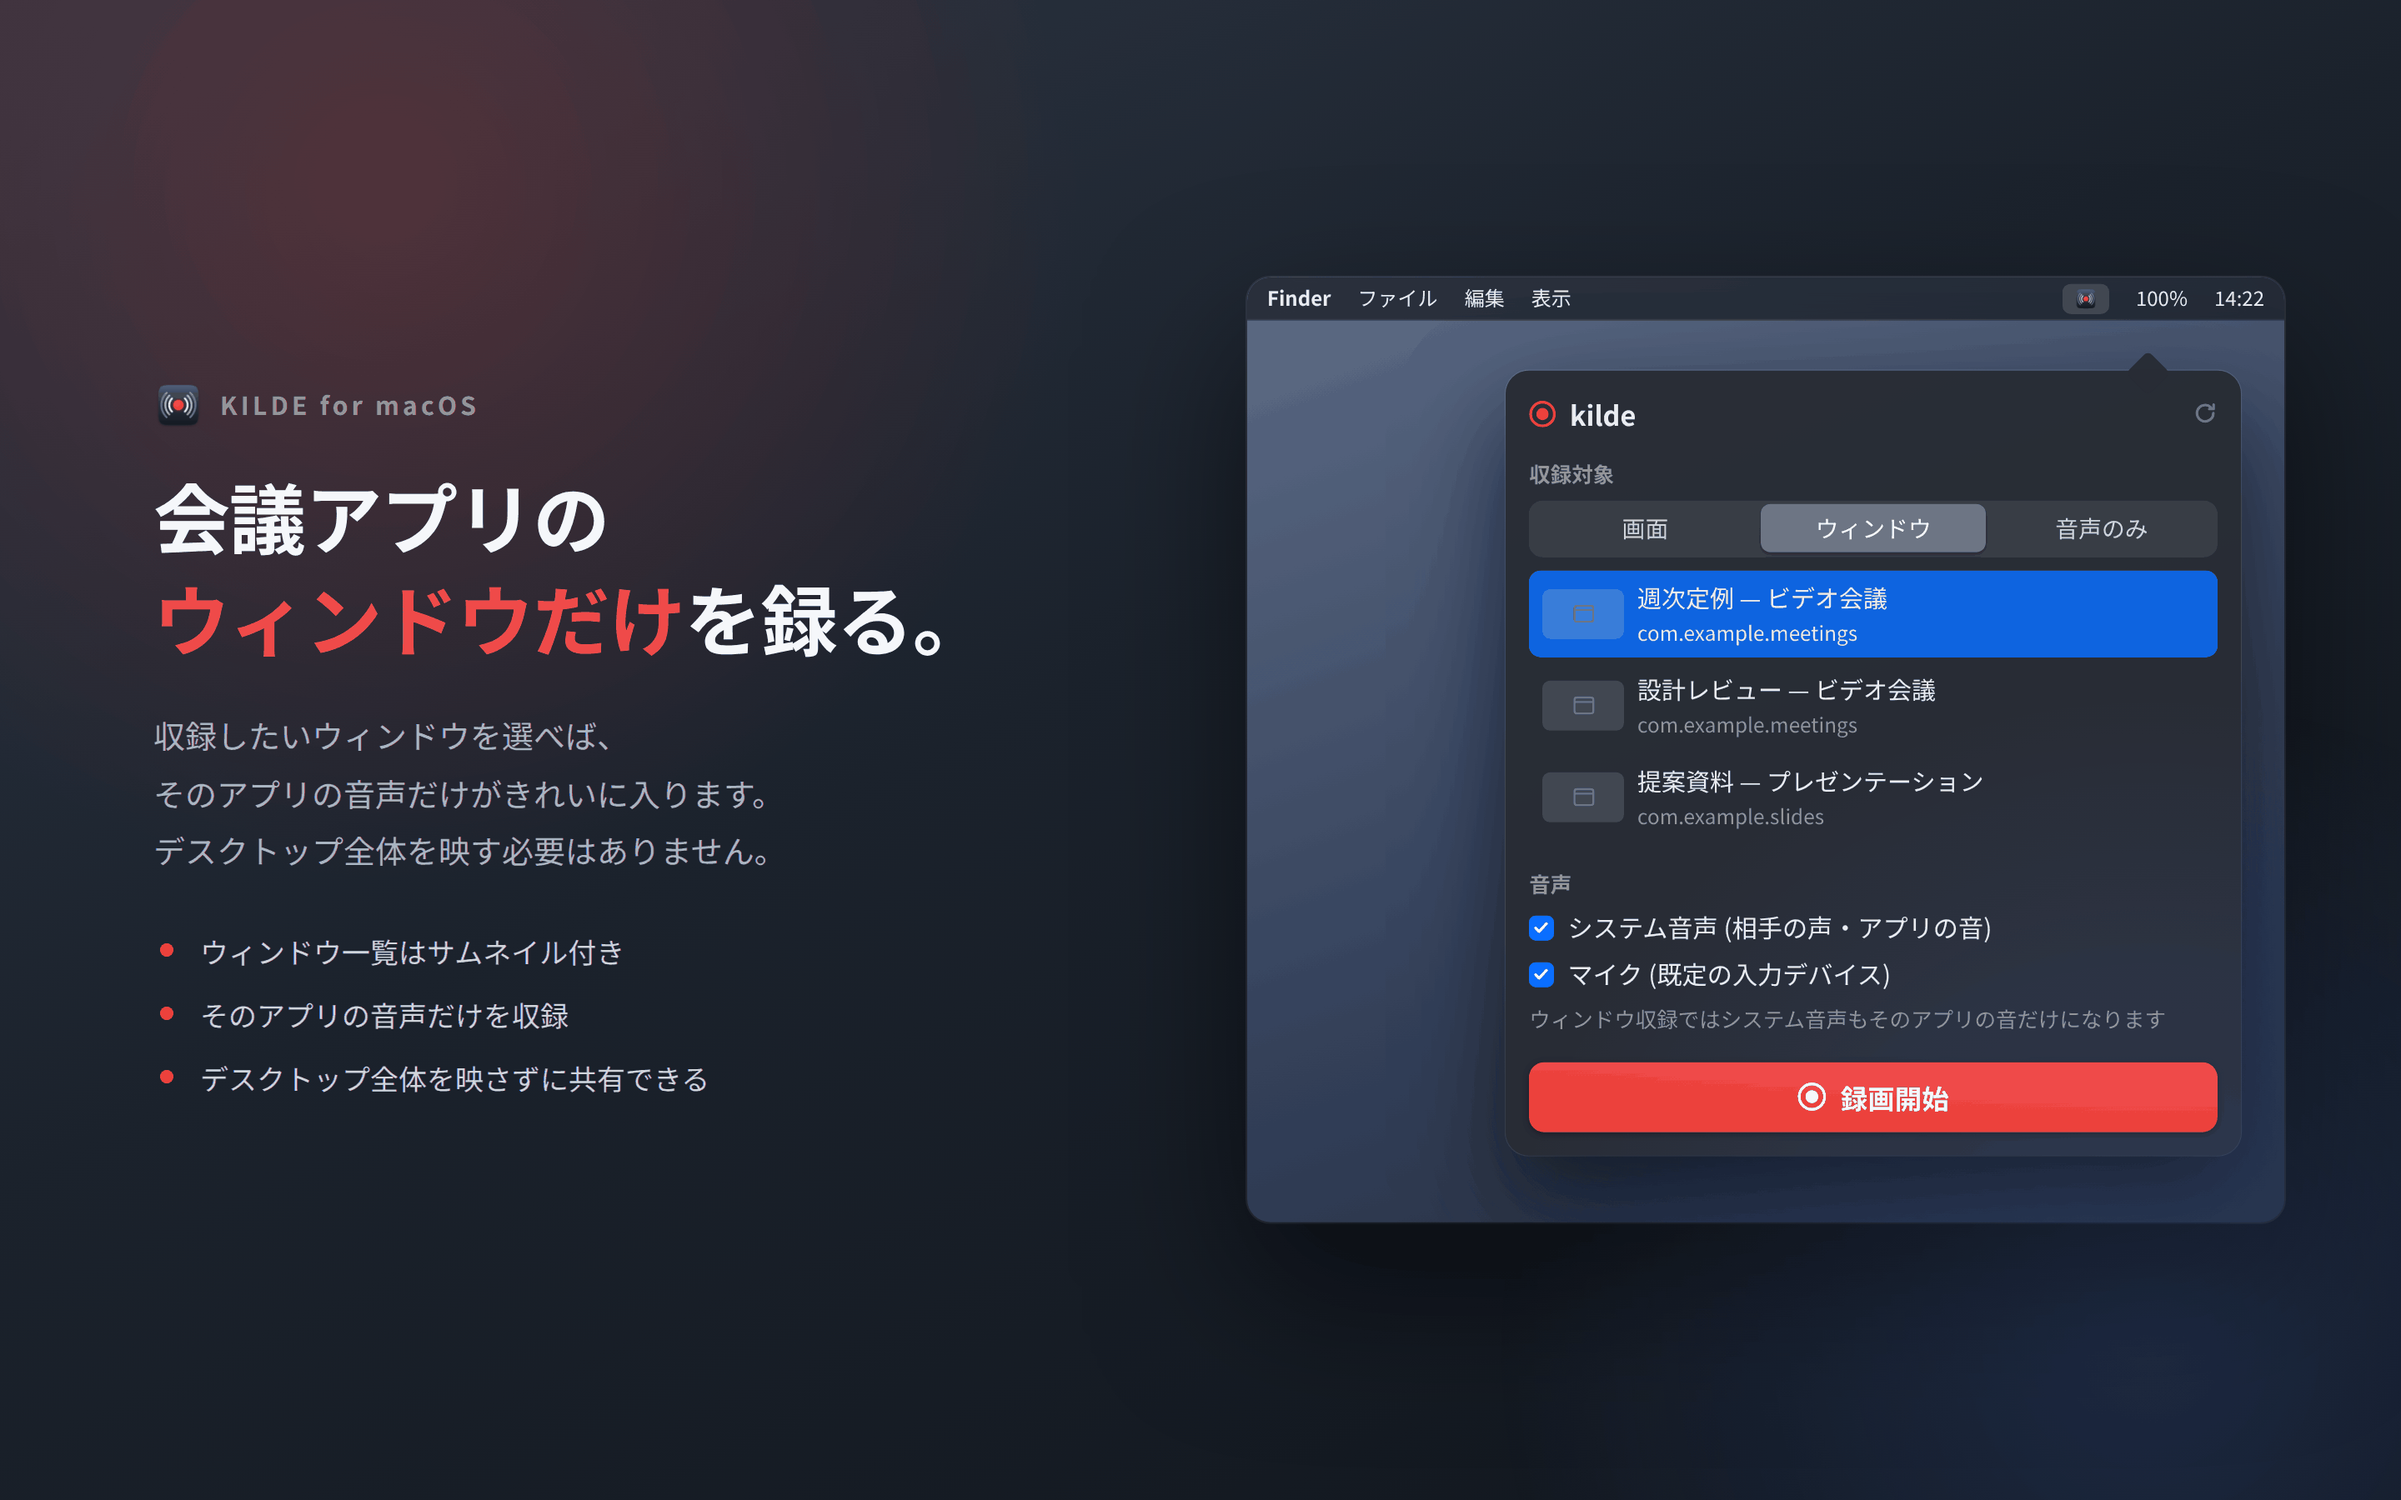
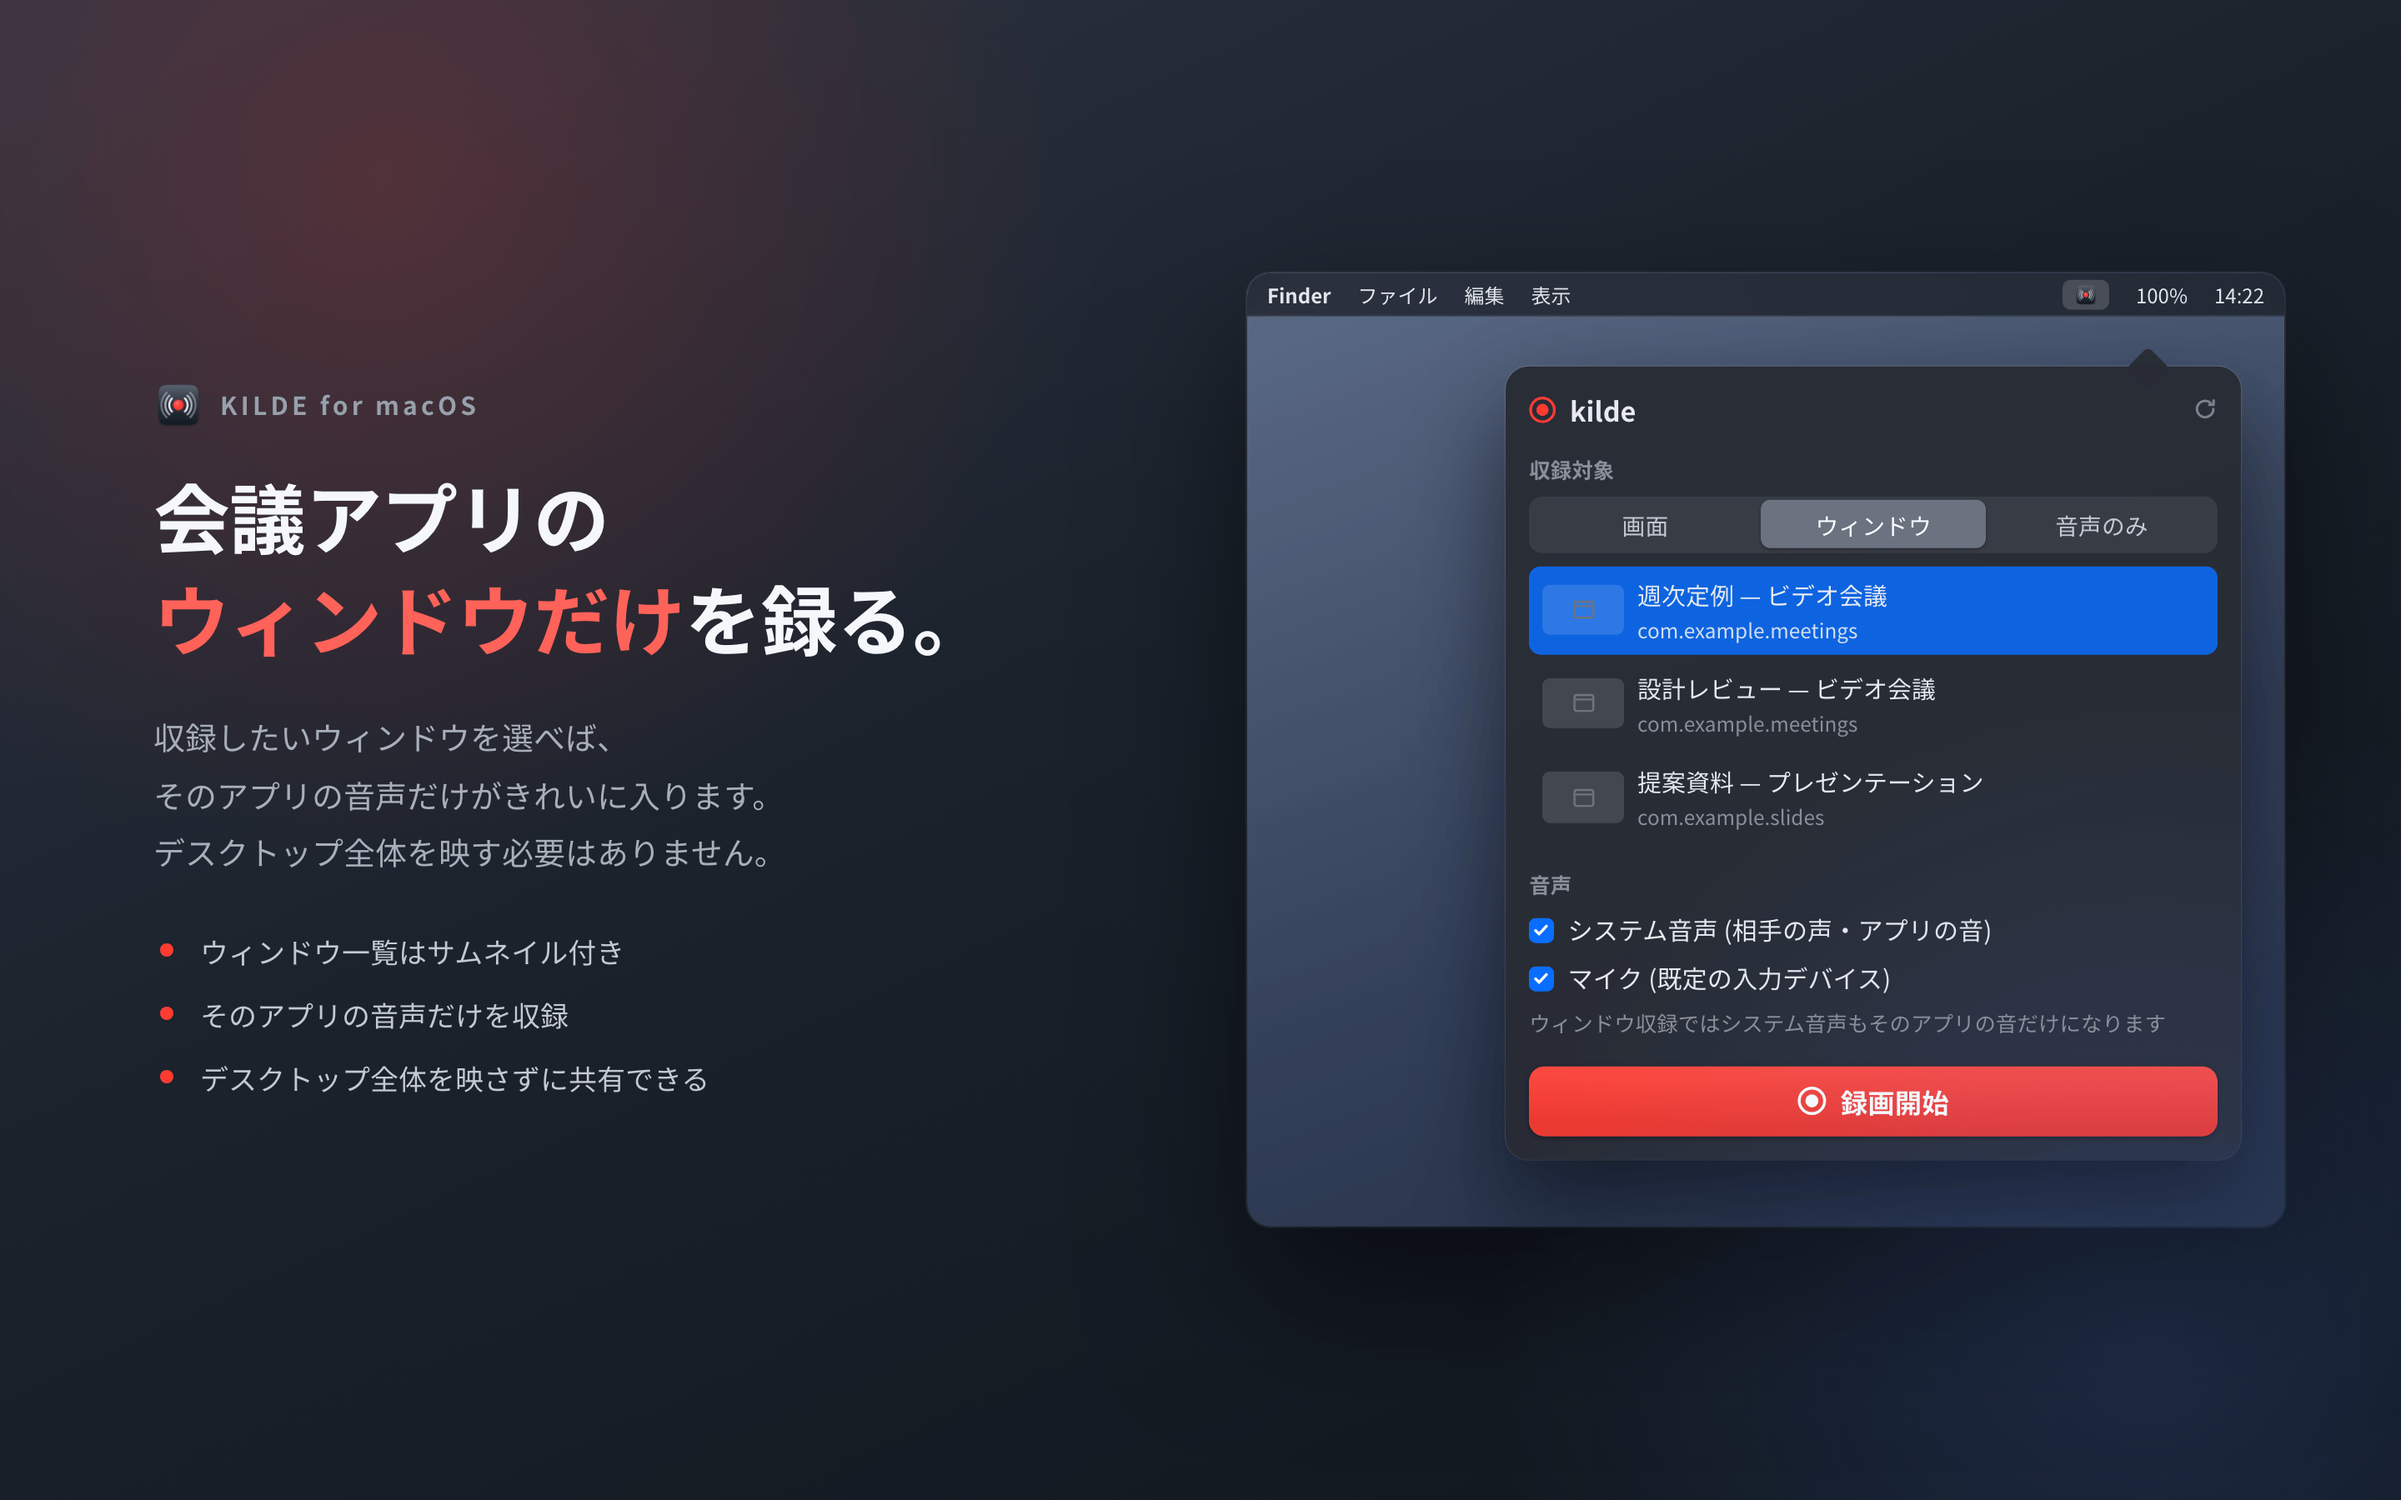
Address cubic review on the App Store assets and privacy policy
- Drop third-party trademarks (QuickTime, Shure MV7) from the screenshot
  generator and regenerate the draft screenshots
- Hide the refresh button in the recording mock to match ContentView
- Make icon.py / render.py / build.py resolve paths from their own location
  and agree on kilde-icon-*.svg, and document copying out/ to screenshots/
- PRIVACY.md: microphone permission also covers selected input devices, and
  the CLI falls back to the configured default or the current directory
- Remove the unused margin constant in icon.py

diff --git a/docs/appstore/tools/panel.py b/docs/appstore/tools/panel.py
@@ -48,9 +48,12 @@ def meter(label, frac, color):
             f'<div class="mtrack"><div class="mfill" style="width:{frac*100:.0f}%;background:{color}"></div></div></div>')
 
 
-def header():
+def header(refresh=True):
+    # ContentView は録画中 (recording.isActive) に一覧の更新ボタンを出さない。
+    # 録画中のモックでは refresh=False にして実機と揃える
+    btn = f'<span class="icon-btn">{sym("refresh", "#8A8F98", 13)}</span>' if refresh else ""
     return (f'<div class="hdr">{sym("record", "#FF3B30", 14)}<span class="hdr-t">kilde</span>'
-            f'<span class="spacer"></span><span class="icon-btn">{sym("refresh", "#8A8F98", 13)}</span></div>')
+            f'<span class="spacer"></span>{btn}</div>')
 
 
 # --- パネルの中身 3 種 -----------------------------------------------------
@@ -63,11 +66,12 @@ def panel_setup():
         {row(f'{sym("display","#C9CED6")}<span>ディスプレイ 0</span><span class="spacer"></span><span class="dim">3456×2234</span>', True)}
         {row(f'{sym("display","#C9CED6")}<span>ディスプレイ 1</span><span class="spacer"></span><span class="dim">2560×1440</span>')}
       </div>''')
+    # 入力デバイス名も他社の商標 (製品名) を避けて一般名にする — README §2
     body += section("音声", f'''
       <div class="checks">
         <div class="ck">{check(True)}<span>システム音声 (相手の声・アプリの音)</span></div>
         <div class="ck">{check(True)}<span>マイク (既定の入力デバイス)</span></div>
-        <div class="ck">{check(False)}<span>Shure MV7</span></div>
+        <div class="ck">{check(False)}<span>USB マイク</span></div>
       </div>''')
     body += section("複数の音声ソース", seg(["1 トラックに合成", "ソースごとに分離"], 0))
     body += section("保存先", f'''
@@ -81,7 +85,7 @@ def panel_setup():
 
 def panel_recording():
     """録画中。経過時間・出力サイズ・ソース別レベルメーター・停止。"""
-    body = header()
+    body = header(refresh=False)
     body += f'''
       <div class="sess">
         <div class="sess-top">
@@ -94,7 +98,7 @@ def panel_recording():
         <div class="meters">
           {meter("システム音声", 0.62, "#34C759")}
           {meter("マイク", 0.84, "#FFCC00")}
-          {meter("Shure MV7", 0.41, "#34C759")}
+          {meter("USB マイク", 0.41, "#34C759")}
         </div>
         <div class="stop">{sym("stop","#fff",14)}<span>停止</span></div>
         <div class="dim sm wrap">ポップオーバーを閉じても録画は続きます。経過時間はメニューバーに表示されます</div>

diff --git a/docs/appstore/tools/build.py b/docs/appstore/tools/build.py
@@ -12,7 +12,7 @@ ICON = (pathlib.Path(__file__).parent.parent / "png" / "icon_1024.png")
 CSS = """
 * { box-sizing: border-box; margin: 0; padding: 0; }
 body { width: 1440px; height: 900px; overflow: hidden;
-  font-family: "Noto Sans CJK JP", "Helvetica Neue", sans-serif;
+  font-family: "Noto Sans CJK JP", "Noto Sans JP", "Helvetica Neue", sans-serif;
   -webkit-font-smoothing: antialiased; }
 .stage { position: relative; width: 1440px; height: 900px;
   background: linear-gradient(155deg, #2C3543 0%, #1B222C 45%, #10151C 100%); overflow: hidden; }
@@ -140,7 +140,8 @@ def page(eyebrow, h1, sub, points, body, icon_uri, menubar_recording=False):
 SHOTS = [
     dict(name="01-capture-system-and-mic",
          h1='システム音声とマイクを、<br><span class="hl">1 本のファイル</span>に。',
-         sub="QuickTime では録れない「相手の声」を、自分の声と一緒に。メニューバーからワンクリックで。",
+         # 他社の製品名 (商標) をコピーにも入れない — README §2
+         sub="標準の画面収録では録れない「相手の声」を、自分の声と一緒に。メニューバーからワンクリックで。",
          points=["画面・ウィンドウ・音声のみを選んで収録",
                  "1 トラック合成／ソースごとに分離を切り替え",
                  "保存先の選択は CLI の既定値としても共有"],

diff --git a/docs/appstore/tools/render.py b/docs/appstore/tools/render.py
@@ -1,8 +1,11 @@
 import asyncio, pathlib, sys
 from playwright.async_api import async_playwright
 
-SRC = pathlib.Path("svg")
-OUT = pathlib.Path("png"); OUT.mkdir(exist_ok=True)
+# パスはカレントディレクトリではなくこのファイルの位置から決める。
+# 入力は icon.py の出力 (docs/appstore/icon)、出力は build.py が読む docs/appstore/png
+HERE = pathlib.Path(__file__).resolve().parent
+SRC = HERE.parent / "icon"
+OUT = HERE.parent / "png"; OUT.mkdir(exist_ok=True)
 
 # ピクセルサイズ -> 使う SVG 版。小さいほど簡略版を使う
 PLAN = {16:"small", 32:"small", 64:"mid", 128:"full", 256:"full", 512:"full", 1024:"full"}
@@ -11,7 +14,7 @@ async def main():
     async with async_playwright() as p:
         b = await p.chromium.launch()
         for size, variant in PLAN.items():
-            svg = (SRC / f"icon-{variant}.svg").read_text()
+            svg = (SRC / f"kilde-icon-{variant}.svg").read_text()
             html = f'<html><body style="margin:0;padding:0"><div style="width:{size}px;height:{size}px">{svg.replace(chr(34)+"1024"+chr(34), chr(34)+str(size)+chr(34), 2)}</div></body></html>'
             page = await b.new_page(viewport={"width": size, "height": size}, device_scale_factor=1)
             await page.set_content(html)

diff --git a/docs/appstore/tools/icon.py b/docs/appstore/tools/icon.py
@@ -3,7 +3,6 @@ import math
 CANVAS = 1024.0
 # Big Sur 系の比率: 1024 キャンバスに 824 の角丸四角を中央配置 (上下左右 100 の余白)
 SHAPE = 824.0
-M = (CANVAS - SHAPE) / 2.0
 CX = CY = CANVAS / 2.0
 
 def squircle_path(cx, cy, half, n=5.9, steps=360):
@@ -91,8 +90,11 @@ def build(variant):
 
 if __name__ == "__main__":
     import sys, pathlib
-    out = pathlib.Path(sys.argv[1])
+    # 既定の出力先はリポジトリの docs/appstore/icon。render.py はここの
+    # kilde-icon-*.svg を読むので、出力先とファイル名は render.py と揃えておく
+    here = pathlib.Path(__file__).resolve().parent
+    out = pathlib.Path(sys.argv[1]) if len(sys.argv) > 1 else here.parent / "icon"
     out.mkdir(parents=True, exist_ok=True)
     for v in ("full", "mid", "small"):
-        (out / f"icon-{v}.svg").write_text(build(v))
+        (out / f"kilde-icon-{v}.svg").write_text(build(v))
     print("wrote", [p.name for p in sorted(out.glob("*.svg"))])
